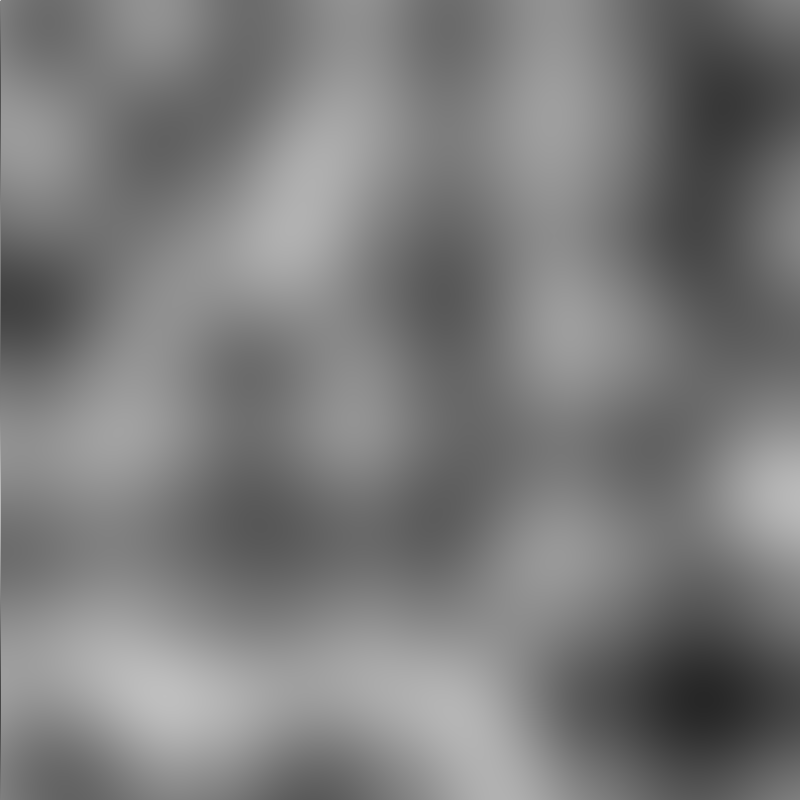
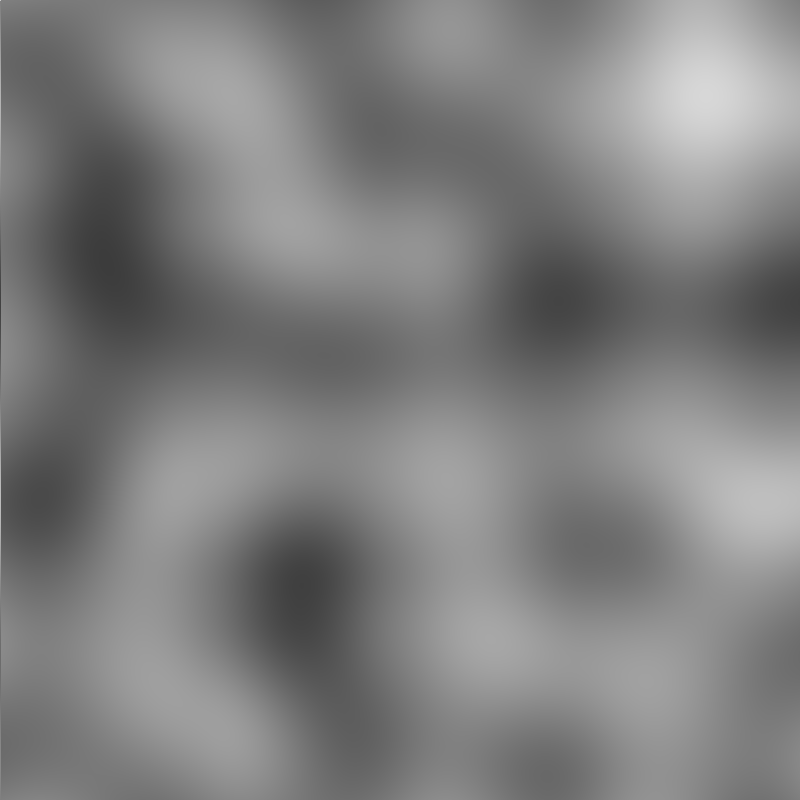
Negative position fix
Fixed a bug that resulted in negative relative position value of the sample vector, which was a result of subtracting upper - left corner vector value instead of its position

diff --git a/PNoise_Map_Generator/Grid.cpp b/PNoise_Map_Generator/Grid.cpp
@@ -29,7 +29,13 @@ glm::vec2 Grid::scaleCoordinates(glm::vec2 position) {
 }
 
 glm::vec2 *Grid::getCornerVectors(glm::vec2 position) {
-	glm::vec2 vectors[CORNER_VEC_COUNT];
+	glm::vec2 *vectors = (glm::vec2 *)malloc(sizeof(glm::vec2) * 
+											 CORNER_VEC_COUNT);
+
+	if (vectors == nullptr) {
+		std::cout << "Failed to allocate corner vector memory" << std::endl;
+		exit(1);
+	}
 
 	size_t floor_x, floor_y, ceil_x, ceil_y;
 	floor_x = (size_t)floorf(position.x);
@@ -47,7 +53,13 @@ glm::vec2 *Grid::getCornerVectors(glm::vec2 position) {
 }
 
 glm::vec2 *Grid::getOffsetVectors(glm::vec2 position) {
-	glm::vec2 vectors[CORNER_VEC_COUNT];
+	glm::vec2 *vectors = (glm::vec2 *)malloc(sizeof(glm::vec2) *
+											 CORNER_VEC_COUNT);
+
+	if (vectors == nullptr) {
+		std::cout << "Failed to allocate offset vector memory" << std::endl;
+		exit(1);
+	}
 
 	vectors[0] = -position;
 	vectors[1] = glm::vec2(1.0f - position.x, -position.y);
@@ -109,23 +121,26 @@ void Grid::print() {
 //Returns the perlin noise value (between 0 and 1) for
 //a given point on [0,1] x [0,1] plane.
 float Grid::getValue(glm::vec2 position) {
-
 	glm::vec2 position_s = scaleCoordinates(position);
 	glm::vec2 *corner_vectors = getCornerVectors(position_s);
 
-	glm::vec2 position_r = position_s - corner_vectors[0];
+	glm::vec2 position_r = position_s - glm::vec2(floorf(position_s.x), floorf(position_s.y));
 	glm::vec2 *offset_vectors = getOffsetVectors(position_r);
 	
-	float dot_products[4];
+	float dot_products[4] = {};
 	for (size_t i = 0; i < CORNER_VEC_COUNT; i++) {
 		dot_products[i] = glm::dot(corner_vectors[i], offset_vectors[i]);
 	}
 
-	float fade_values[4];
-	fade_values[0] = fade2(1 - position_r.x, 1 - position_r.y);
-	fade_values[0] = fade2(position_r.x, 1 - position_r.y);
-	fade_values[0] = fade2(position_r.x, position_r.y);
-	fade_values[0] = fade2(1 - position_r.x, position_r.y);
+	free(corner_vectors);
+	free(offset_vectors);
+
+	float fade_values[] = {
+		fade2(1.0f - position_r.x, 1.0f - position_r.y),
+		fade2(position_r.x, 1.0f - position_r.y),
+		fade2(position_r.x, position_r.y),
+		fade2(1.0f - position_r.x, position_r.y)
+	};
 
 	float value = 0.0f;
 	for (size_t i = 0; i < CORNER_VEC_COUNT; i++) {

diff --git a/PNoise_Map_Generator/Texture.cpp b/PNoise_Map_Generator/Texture.cpp
@@ -1,0 +1,57 @@
+#include "Texture.h"
+
+Texture::Texture(const char *image, GLenum texType, GLuint slot, GLenum format, GLenum pixelType) {
+	this->type = texType;
+	// Stores the width, height, and the number of color channels of the image
+	int widthImg, heightImg, numColCh;
+	stbi_set_flip_vertically_on_load(true);
+	unsigned char *bytes = stbi_load(image, &widthImg, &heightImg, &numColCh, 0);
+
+	//Generate an OpenGL texture object and assign an id to it
+	glGenTextures(1, &this->id);
+	// Assigns the texture to a Texture Unit
+	glActiveTexture(GL_TEXTURE0 + slot);
+	this->unit = slot;
+	glBindTexture(texType, this->id);
+
+	//Set the min and mag filters to nearest
+	glTexParameteri(texType, GL_TEXTURE_MIN_FILTER, GL_NEAREST);
+	glTexParameteri(texType, GL_TEXTURE_MAG_FILTER, GL_NEAREST);
+
+	//Set the texture wrap on both axes to repeat
+	glTexParameteri(texType, GL_TEXTURE_WRAP_S, GL_REPEAT);
+	glTexParameteri(texType, GL_TEXTURE_WRAP_T, GL_REPEAT);
+
+	// Assigns the image to the OpenGL Texture object
+	glTexImage2D(texType, 0, GL_RGBA, widthImg, heightImg, 0, format, pixelType, bytes); \
+		// Generates MipMaps
+		glGenerateMipmap(texType);
+
+	// Deletes the image data as it is already in the OpenGL Texture object
+	stbi_image_free(bytes);
+
+	// Unbinds the OpenGL Texture object so that it can't accidentally be modified
+	glBindTexture(texType, 0);
+}
+
+Texture::~Texture() {
+	glDeleteTextures(1, &this->id);
+}
+
+void Texture::texUnit(Shader *shader, const char *uniform, GLuint unit) {
+	// Gets the location of the uniform
+	GLuint texUni = glGetUniformLocation(shader->getId(), uniform);
+	// Shader needs to be activated before changing the value of a uniform
+	shader->activate();
+	// Sets the value of the uniform
+	glUniform1i(texUni, GL_TEXTURE0 + unit);
+}
+
+void Texture::bind() {
+	glActiveTexture(GL_TEXTURE0 + this->unit);
+	glBindTexture(this->type, this->id);
+}
+
+void Texture::unbind() {
+	glBindTexture(this->type, 0);
+}

diff --git a/PNoise_Map_Generator/Perlin.cpp b/PNoise_Map_Generator/Perlin.cpp
@@ -56,12 +56,16 @@ void Perlin::generateImage() {
 	free(image);
 }
 
+void Perlin::displayImage() {
+	Texture tex0("default.png", GL_TEXTURE_2D, 0, GL_RGBA, GL_UNSIGNED_BYTE);
+	tex0.texUnit(this->shader, "tex0", 0);
+}
+
 Perlin::Perlin(int window_width, int fside_count) {
 	this->width = this->height = window_width;
 
 	this->grid = new Grid(fside_count + 1LU);
 	grid->randomize();
-	//grid->print();
 
 	initializeGL();
 
@@ -95,6 +99,7 @@ void Perlin::start() {
 	generateImage();
 
 	vao->linkAttributes(*this->vbo, 0, 2, GL_FLOAT, 2 * sizeof(float), (void *)0);
+	vao->linkAttributes(*this->vbo, 1, 2, GL_FLOAT, 2 * sizeof(float), (void *)(2 * sizeof(float)));
 
 	vao->unbind();
 	vbo->unbind();

diff --git a/PNoise_Map_Generator/Texture.h b/PNoise_Map_Generator/Texture.h
@@ -1,0 +1,25 @@
+#ifndef TEXTURE_CLASS_H
+#define TEXTURE_CLASS_H
+
+#include <glad/glad.h>
+#include <stb_image/stb_image.h>
+
+#include "Shader.h"
+
+class Texture {
+private:
+	GLuint id;
+	GLenum type;
+	GLuint unit;
+
+public:
+	Texture(const char *image, GLenum texType, GLuint slot, GLenum format, GLenum pixelType);
+	~Texture();
+
+	// Assigns a texture unit to a texture
+	void texUnit(Shader *shader, const char *uniform, GLuint unit);
+	void bind();
+	void unbind();
+};
+
+#endif

diff --git a/PNoise_Map_Generator/Perlin.h b/PNoise_Map_Generator/Perlin.h
@@ -10,17 +10,18 @@
 #include "VAO.h"
 #include "ElementBuffer.h"
 #include "Shader.h"
+#include "Texture.h"
 
 class Perlin {
 private:
 	int width, height;
 	Grid *grid;
 
-	GLfloat vertices[8] = {
-		-1.0f,  1.0f,
-		 1.0f,  1.0f,
-		 1.0f, -1.0f,
-		-1.0f, -1.0f
+	GLfloat vertices[4 * (2 + 2)] = {
+		-1.0f,  1.0f, 0.0f, 1.0f,
+		 1.0f,  1.0f, 1.0f, 1.0f,
+		 1.0f, -1.0f, 1.0f, 0.0f,
+		-1.0f, -1.0f, 0.0f, 0.0f
 	};
 
 	GLuint elements[6] = {

diff --git a/PNoise_Map_Generator/Shader.cpp b/PNoise_Map_Generator/Shader.cpp
@@ -60,6 +60,10 @@ Shader::Shader(const char *vertexFile, const char *fragmentFile) {
 	glDeleteShader(fragmentShader);
 }
 
+GLuint Shader::getId() {
+	return this->id;
+}
+
 void Shader::activate() {
 	glUseProgram(this->id);
 }

diff --git a/PNoise_Map_Generator/Shader.h b/PNoise_Map_Generator/Shader.h
@@ -12,6 +12,7 @@ public:
 	Shader(const char *vertexFile, const char *fragmentFile);
 	~Shader();
 
+	GLuint getId();
 	void activate();
 };
 
